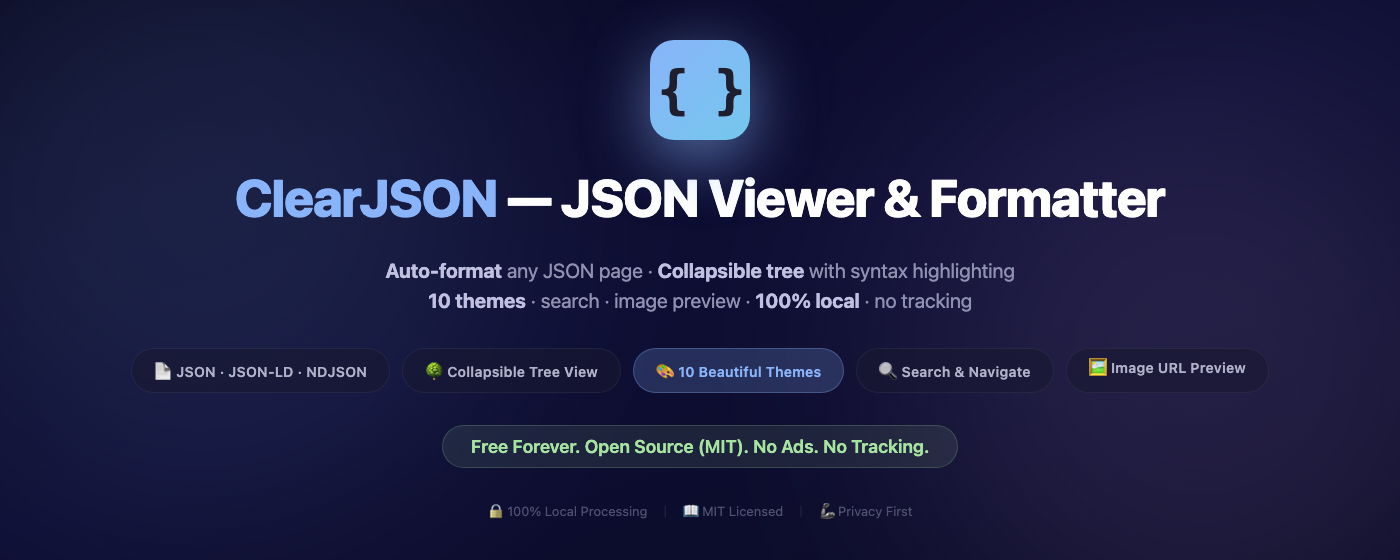
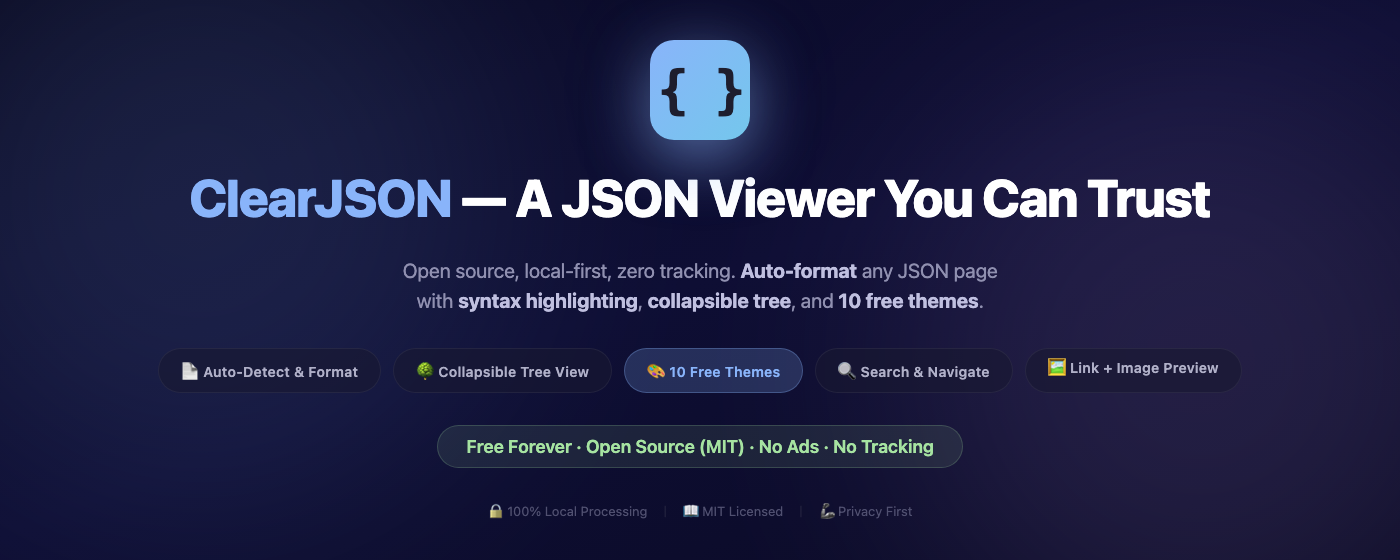
Align promo tile copy with product page (wayknow.tech/clearjson.html)
- large-tile: 'A JSON Viewer You Can Trust' matches site slogan
- marquee-tile: use site phrasing — open source, local-first, zero tracking
- Badges: 100% Local / Zero Tracking / MIT Licensed

diff --git a/promo/marquee-tile.html b/promo/marquee-tile.html
@@ -83,22 +83,22 @@
     <div class="braces">{ }</div>
   </div>
 
-  <h1><span>ClearJSON</span> — JSON Viewer &amp; Formatter</h1>
+  <h1><span>ClearJSON</span> — A JSON Viewer You Can Trust</h1>
 
   <div class="subtitle">
-    <b>Auto-format</b> any JSON page · <b>Collapsible tree</b> with syntax highlighting<br>
-    <b>10 themes</b> · search · image preview · <b>100% local</b> · no tracking
+    Open source, local-first, zero tracking. <b>Auto-format</b> any JSON page<br>
+    with <b>syntax highlighting</b>, <b>collapsible tree</b>, and <b>10 free themes</b>.
   </div>
 
   <div class="pills">
-    <span class="pill">📄 JSON · JSON-LD · NDJSON</span>
+    <span class="pill">📄 Auto-Detect &amp; Format</span>
     <span class="pill">🌳 Collapsible Tree View</span>
-    <span class="pill highlight">🎨 10 Beautiful Themes</span>
+    <span class="pill highlight">🎨 10 Free Themes</span>
     <span class="pill">🔍 Search &amp; Navigate</span>
-    <span class="pill">🖼 Image URL Preview</span>
+    <span class="pill">🖼 Link + Image Preview</span>
   </div>
 
-  <div class="big-cta">Free Forever. Open Source (MIT). No Ads. No Tracking.</div>
+  <div class="big-cta">Free Forever · Open Source (MIT) · No Ads · No Tracking</div>
 
   <div class="bottom-info">
     <span>🔒 100% Local Processing</span><span class="sep">|</span>

diff --git a/promo/large-tile.html b/promo/large-tile.html
@@ -137,14 +137,14 @@
     </div>
     <div class="brand-text">
       <div class="name">ClearJSON</div>
-      <div class="tag">Privacy-First JSON Viewer</div>
+      <div class="tag">A JSON Viewer You Can Trust</div>
     </div>
   </div>
 
   <div class="badge-row">
     <span class="badge badge-local">🔒 100% Local</span>
-    <span class="badge badge-privacy">🛡 Privacy First</span>
-    <span class="badge badge-opensource">📖 Open Source</span>
+    <span class="badge badge-privacy">🛡 Zero Tracking</span>
+    <span class="badge badge-opensource">📖 MIT Licensed</span>
   </div>
 
   <div class="features">
